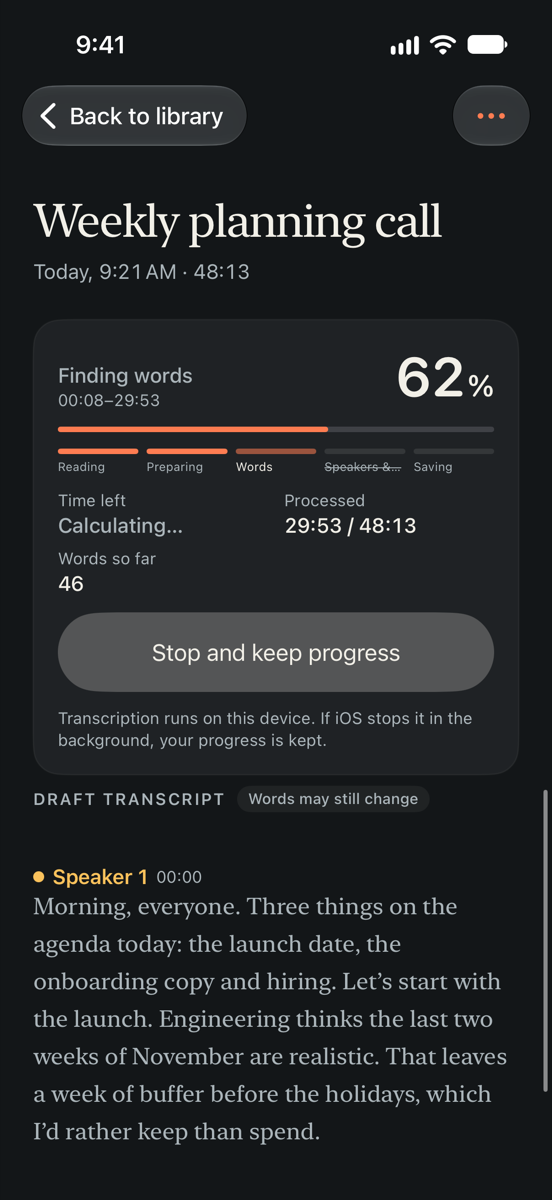
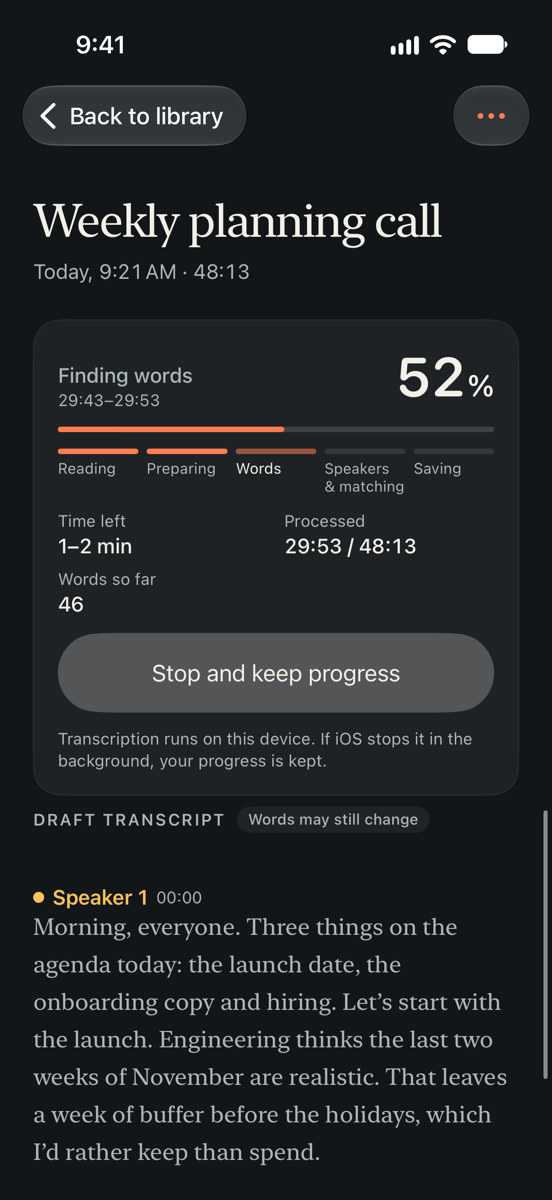
Draw landscape shots upright, keep the set unless every shot was taken, and retake the transcribing and iPad shots
Prepared with Claude Code

diff --git a/CassiniUITests/ScreenshotTests.swift b/CassiniUITests/ScreenshotTests.swift
@@ -40,6 +40,9 @@ final class ScreenshotTests: XCTestCase {
         let headline = app.descendants(matching: .any)["progressHeadline"]
         XCTAssertTrue(headline.wait(until: NSPredicate(format: "label CONTAINS %@", "%"), within: 15))
         XCTAssertTrue(element(app, containing: "agenda").waitForExistence(within: 10), "the draft so far shows")
+        // The job's paced results give it a time left a few seconds in.
+        let timeLeft = app.descendants(matching: .any).matching(identifier: "timeLeftStat").firstMatch
+        XCTAssertTrue(timeLeft.wait(until: NSPredicate(format: "label CONTAINS %@", "min"), within: 15), timeLeft.label)
         // The draft follows its end as it arrives; back at its start, its header shows under the card.
         let parts = app.descendants(matching: .any).matching(identifier: "draftTranscript")
         let header = parts.element(boundBy: 0), draft = parts.element(boundBy: parts.count - 1)
@@ -181,11 +184,20 @@ final class ScreenshotTests: XCTestCase {
         app.descendants(matching: .any).matching(NSPredicate(format: "label CONTAINS %@", text)).firstMatch
     }
 
-    /// The whole screen, status bar included, under the name `scripts/screenshots.sh` saves it as.
+    /// The whole screen, status bar included, under the name `scripts/screenshots.sh` saves it as. A landscape
+    /// screenshot comes as portrait pixels with an orientation tag, which is drawn into the pixels here so the saved
+    /// PNG is landscape whatever reads or strips its metadata.
     @MainActor private func capture(_ name: String) {
-        let attachment = XCTAttachment(screenshot: XCUIScreen.main.screenshot())
+        let attachment = XCTAttachment(image: upright(XCUIScreen.main.screenshot().image))
         attachment.name = name
         attachment.lifetime = .keepAlways
         add(attachment)
+    }
+
+    private func upright(_ image: UIImage) -> UIImage {
+        guard image.imageOrientation != .up else { return image }
+        let format = UIGraphicsImageRendererFormat()
+        format.scale = image.scale
+        return UIGraphicsImageRenderer(size: image.size, format: format).image { _ in image.draw(at: .zero) }
     }
 }
